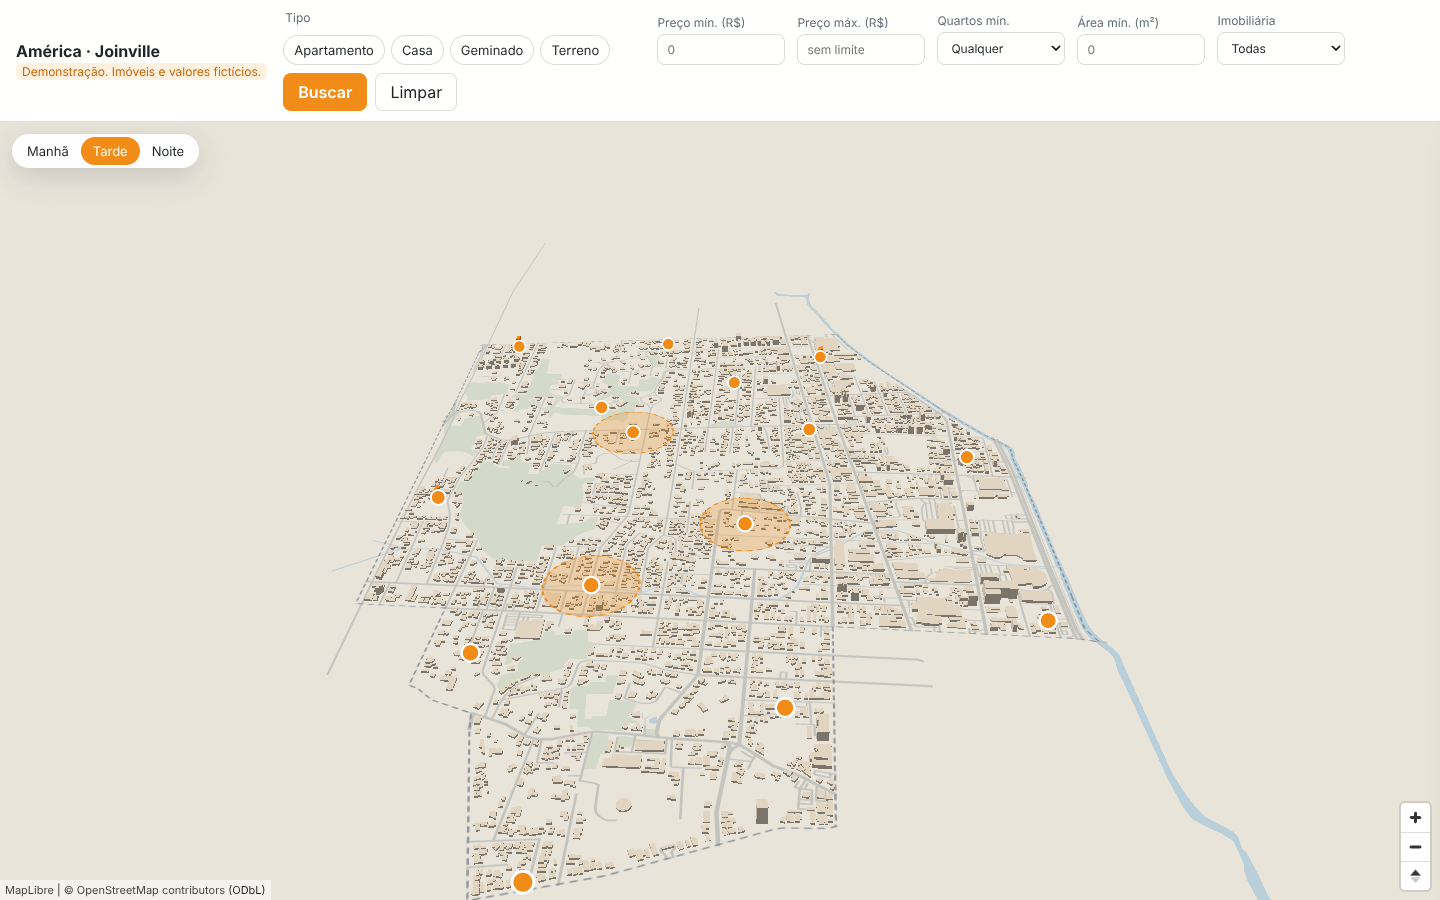
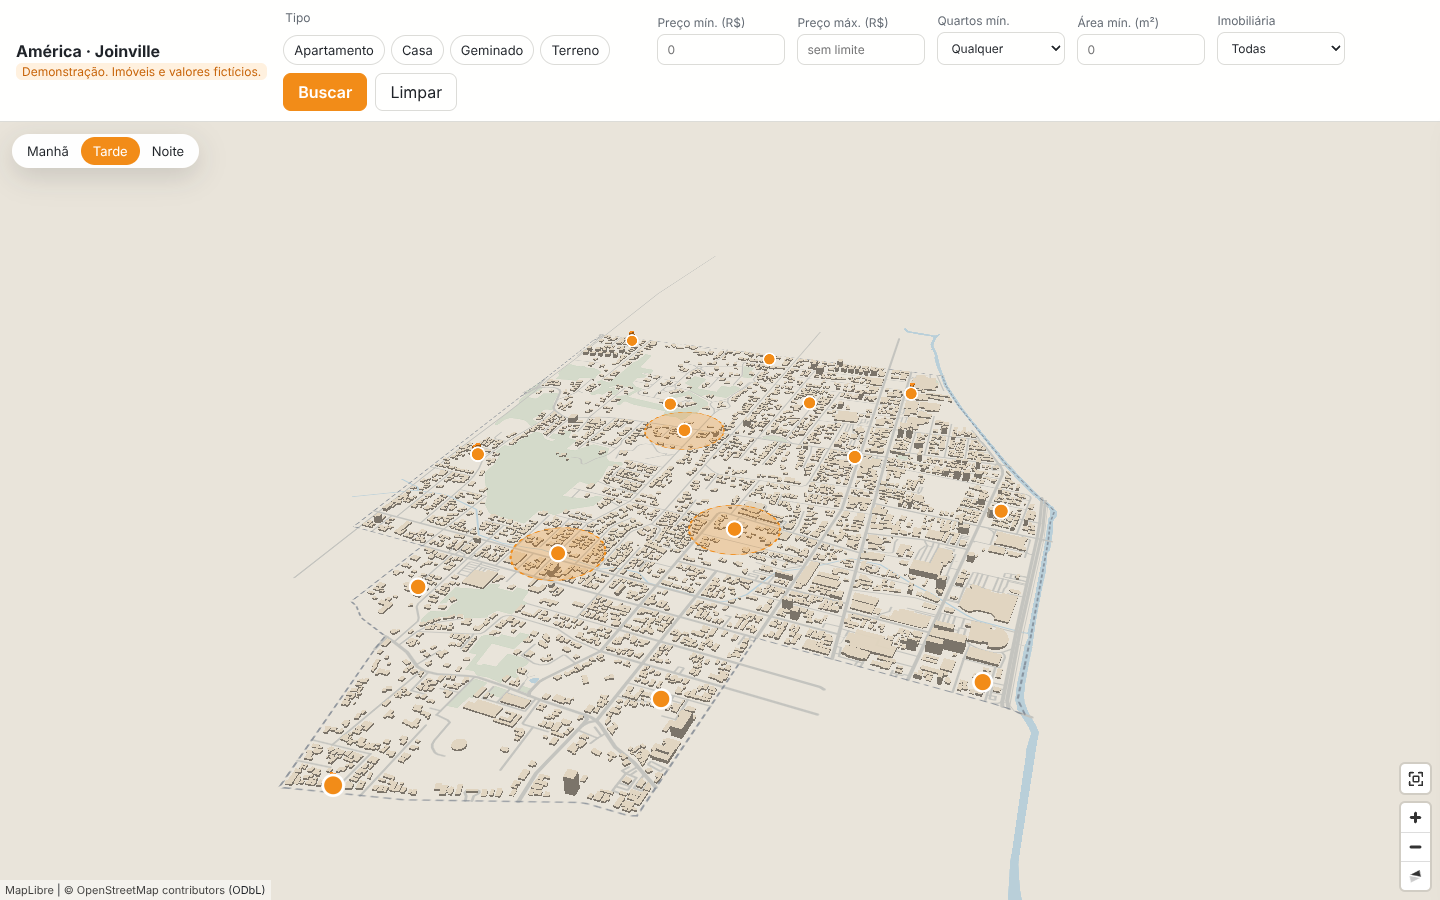
Add a "Visão geral" map button to return to the overview
A MapLibre control above zoom +/- flies back to the initial framing (all listings,
58° pitch, -20° bearing); the initial camera uses the same Scene.showOverview().

Claude-Session: https://claude.ai/code/session_01MswBngYgUdv4UjeCTjJVEZ

diff --git a/src/map/scene.ts b/src/map/scene.ts
@@ -4,6 +4,7 @@ import type { Feature, FeatureCollection, Point, Polygon, MultiPolygon } from 'g
 import turfCircle from '@turf/circle';
 import turfBbox from '@turf/bbox';
 import type { AppData } from '../data/load';
+import { OverviewControl } from './overviewControl';
 import type { Listing } from '../data/types';
 import type { Theme } from './lighting';
 
@@ -72,10 +73,10 @@ export class Scene {
     });
     this.map.addControl(new AttributionControl({ compact: false, customAttribution: MAPLIBRE_ATTRIBUTION }), 'bottom-left');
     this.map.addControl(new NavigationControl({ visualizePitch: true }), 'bottom-right');
+    // added after the navigation control: bottom corners stack upwards, so it sits above zoom +/−
+    this.map.addControl(new OverviewControl(() => this.showOverview(true)), 'bottom-right');
 
-    // Initial view frames every listing (with the pitched camera), so none starts off-screen.
-    const all = this.unionBounds(this.data.listings.listings);
-    if (all) this.map.fitBounds(all, { padding: this.cameraPadding(), pitch: 58, bearing: -20, animate: false });
+    this.showOverview(false);
 
     this.ready = new Promise((resolve) => this.map.once('load', () => resolve()));
     this.bindInteractions();
@@ -345,6 +346,13 @@ export class Scene {
   listingBounds(listing: Listing): [number, number, number, number] | null {
     const f = this.listingFeatures.find((x) => x.properties.listingId === listing.id);
     return f ? (turfBbox(f) as [number, number, number, number]) : null;
+  }
+
+  /** Initial framing: every listing (pitched camera), so none starts off-screen. Also the "Visão geral" button. */
+  showOverview(animate: boolean): void {
+    const all = this.unionBounds(this.data.listings.listings);
+    if (!all) return;
+    this.map.fitBounds(all, { padding: this.cameraPadding(), pitch: 58, bearing: -20, animate, duration: 1200 });
   }
 
   private unionBounds(listings: Listing[]): LngLatBounds | null {

diff --git a/src/map/overviewControl.ts b/src/map/overviewControl.ts
@@ -1,0 +1,27 @@
+import type { IControl } from 'maplibre-gl';
+
+/** Map button that flies back to the initial overview (all listings, default pitch and bearing). */
+export class OverviewControl implements IControl {
+  private container: HTMLElement | null = null;
+
+  constructor(private onClick: () => void) {}
+
+  onAdd(): HTMLElement {
+    const div = document.createElement('div');
+    div.className = 'maplibregl-ctrl maplibregl-ctrl-group';
+    div.innerHTML = `<button type="button" class="overview-btn" title="Visão geral do bairro" aria-label="Voltar à visão geral do bairro">
+      <svg viewBox="0 0 20 20" width="18" height="18" aria-hidden="true" fill="none" stroke="currentColor" stroke-width="1.8" stroke-linecap="round" stroke-linejoin="round">
+        <path d="M3 7V3h4M13 3h4v4M17 13v4h-4M7 17H3v-4"/>
+        <rect x="7" y="7" width="6" height="6" rx="1"/>
+      </svg>
+    </button>`;
+    div.querySelector('button')!.addEventListener('click', this.onClick);
+    this.container = div;
+    return div;
+  }
+
+  onRemove(): void {
+    this.container?.remove();
+    this.container = null;
+  }
+}

diff --git a/src/styles.css b/src/styles.css
@@ -524,6 +524,13 @@ body[data-tod='night'] .price {
   margin: 0;
 }
 
+.overview-btn {
+  display: flex !important;
+  align-items: center;
+  justify-content: center;
+  color: #333;
+}
+
 /* ---------------- attribution ---------------- */
 .maplibregl-ctrl-attrib {
   font-size: 11px;
